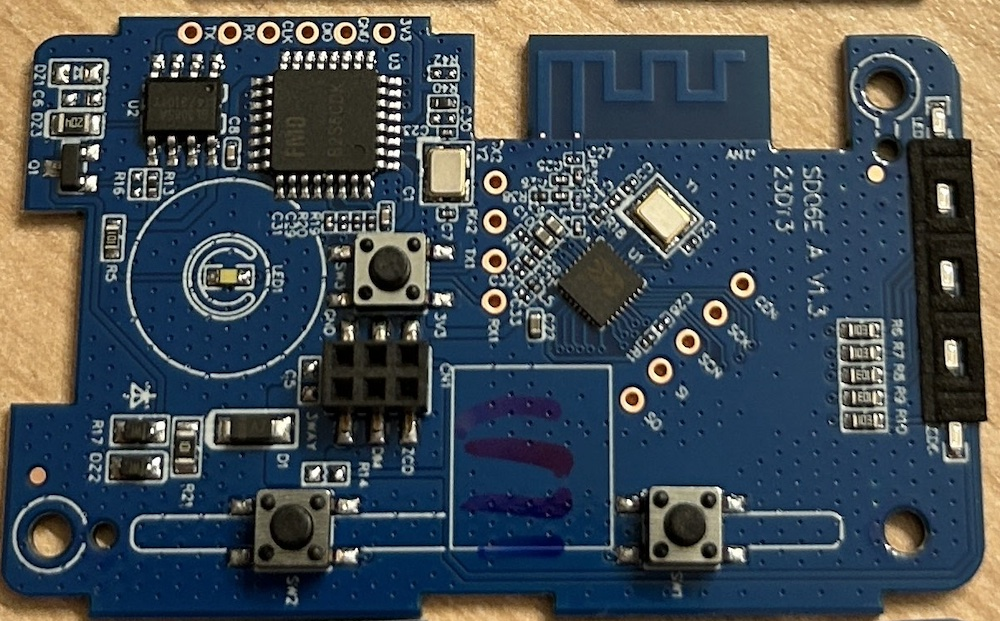
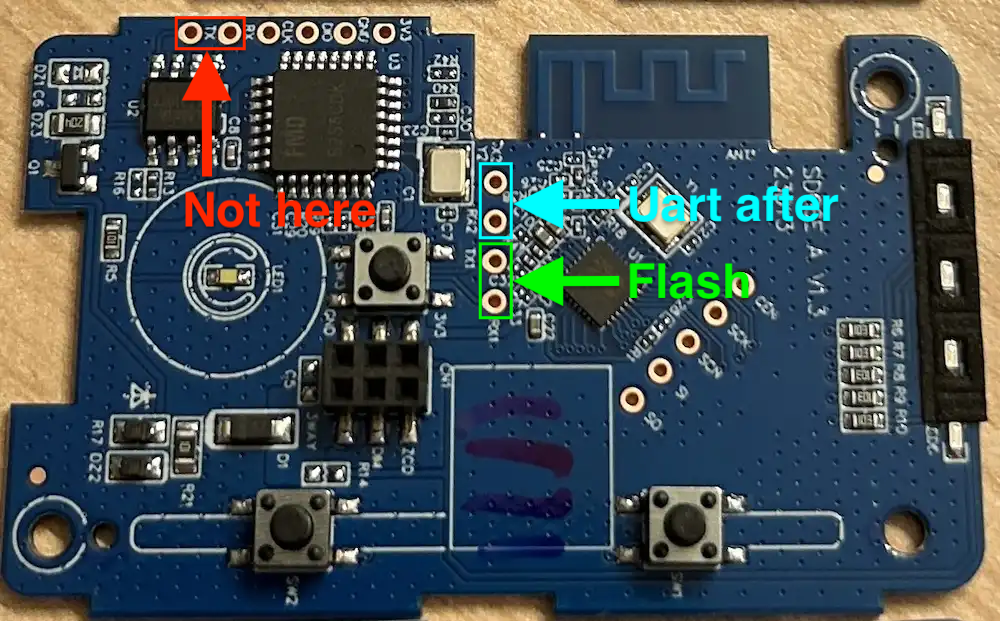
[Feit-DIMSMART-3-CAN] Provide additional detail in words and images. (#1233)

Changed region(s): [[0.465, 0.2448, 0.837, 0.5201], [0.155, 0.0, 0.372, 0.3671]]

diff --git a/src/docs/devices/Feit-DIMSMART-3-CAN/index.md b/src/docs/devices/Feit-DIMSMART-3-CAN/index.md
@@ -19,7 +19,9 @@ You also need to solder a wire to the NRST pad on the back side of the board. Th
 
 ## Dumping original firmware
 
-Connect NRST to gnd (and leave it connected to ground), provide power to the board, then:
+In the plastic socket on the board is a place for ground and 3v3. Connect NRST to gnd as you provide power to the board to put the board in flash mode. Once you disconnect ground from NRST, the board "boots". The board needs to be in flash mode to read the flash or to write the flash but once the process starts you can disconnect ground from NRST.
+
+I don't like to solder onto that pad because it can pull the pad off. This makes the board undlashable. Instead, I hold (with fingers) a ground-connected wire to NRST, power the board, press enter on the command. Then I can let go.
 
 ```bash
 ltchiptool flash read beken-72xx ./dimmer1
@@ -36,7 +38,7 @@ esphome compile dimmer.yml
 Next, write that firmware:
 
 ```bash
-ltchiptool flash write .esphome/build/dimmer/.pioenvs/dimmer/esphome_2024.10.0_generic-bk7231n-qfn32-tuya_bk7231n_lt1.7.0.uf2
+ltchiptool flash write .esphome/build/dimmer/.pioenvs/dimmer/esphome_2024.10.0_generic-bk7231n-qfn32-tuya_bk7231n_lt1.7.0.uf2 --device=/dev/tty.usbserial-0001
 ```
 
 ## Basic Configuration (hardware only)
